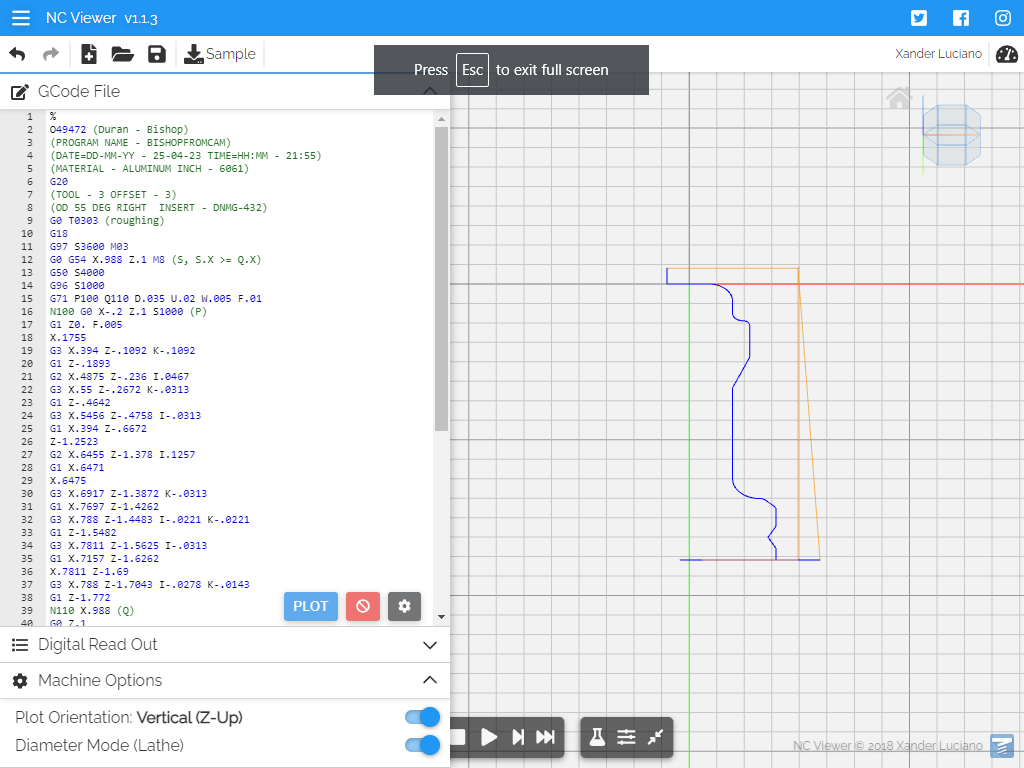
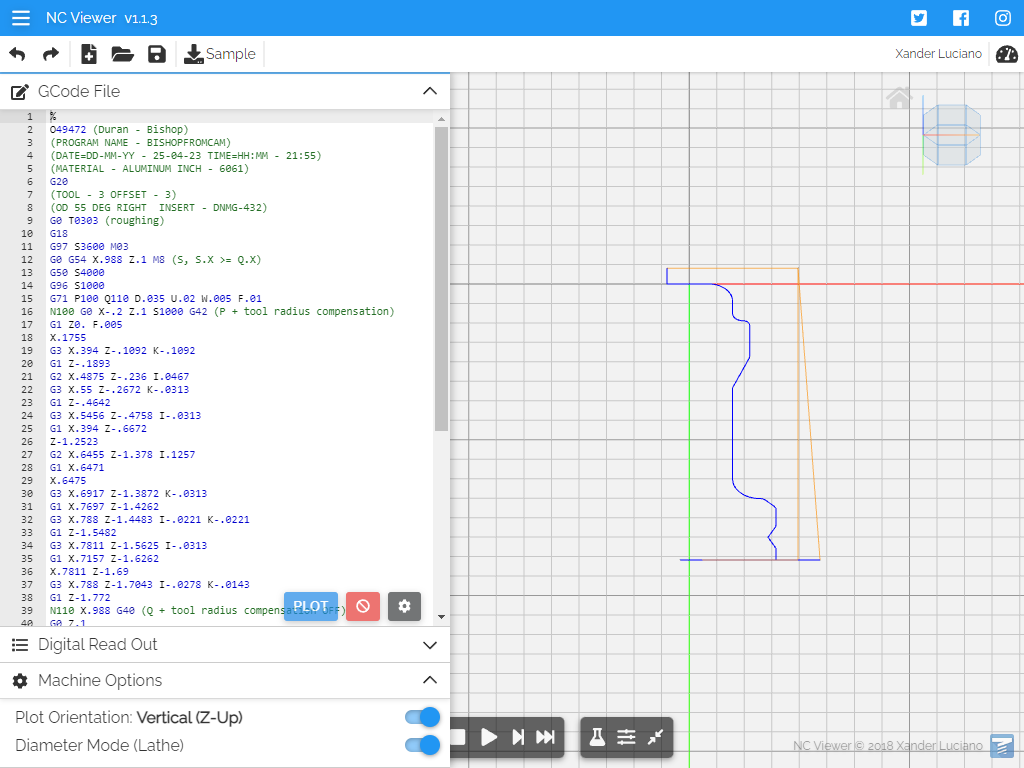
[prj05] fixed NC from CAM image, added Gcode from CAM

Changed region(s): [[0.3438, 0.0312, 0.6562, 0.125], [0.125, 0.7812, 0.2812, 0.8125], [0.0312, 0.0625, 0.0625, 0.0938]]

diff --git a/project05-cnc_lathe-bishop/docs/main.tex b/project05-cnc_lathe-bishop/docs/main.tex
@@ -24,6 +24,11 @@
     pdflatex gcode-manual-for_cnc_simulator
 }
 
+\write18{
+    % the manual gcode for CNC Simulator in two columns
+    pdflatex gcode-cam
+}
+
 \begin{document}
 
 \maketitle
@@ -42,7 +47,7 @@
 \chapter{Plot of manual Gcode in NCViewer}
 \begin{landscape}
 % this image has a lower portrait aspect ratio than a page, so use height for reference
-\includegraphics[height=\textheight]{img/prj05-manual-gcode-ncviewer-plot.png}
+\includegraphics[height=\textheight]{img/prj05-manual-gcode-ncviewer-plot-xz.png}
 \end{landscape}
 
 %\chapter{Gcode for CNC Simulator}
@@ -61,6 +66,16 @@
 \vfill
 \includegraphics[width=\linewidth]{img/prj05-mastercam_simulator-verification.png}
 \vfill
+\end{landscape}
+
+%\chapter{Gcode for CNC Simulator}
+\addtocounter{chapter}{1}
+\includepdf[pages=2-,pagecommand={}]{gcode-cam.pdf}
+
+\chapter{Plot of MasterCAM-generated Gcode in NCViewer}
+\begin{landscape}
+% this image has a lower portrait aspect ratio than a page, so use height for reference
+\includegraphics[height=\textheight]{img/prj05-cam-gcode-ncviewer-plot-xz.png}
 \end{landscape}
 
 \end{document}

diff --git a/project05-cnc_lathe-bishop/docs/gcode-cam.tex b/project05-cnc_lathe-bishop/docs/gcode-cam.tex
@@ -1,0 +1,24 @@
+\documentclass[twocolumn]{report}
+\usepackage[margin=1in]{geometry}
+\usepackage{amsmath}
+\usepackage{amssymb}
+% no page numbers for sub document
+\pagenumbering{gobble}
+
+\addtocounter{chapter}8
+\title{ENGT 3652 Project 5 Chapter~\thechapter:\\*CNC Lathe-Bishop:\\*The MasterCAM generated Gcode}
+\author{Leomar Dur\'an}
+\date{${24}^{\text{th}}$ April 2023}
+
+\usepackage{minted}
+\newcommand*\gcode{lib/pygments/gcodelexer.py:GcodeLexer -x}
+
+\begin{document}
+
+\maketitle
+
+\addtocounter{chapter}{-1}
+\chapter{The MasterCAM generated Gcode}
+\inputminted[breaklines]\gcode{src/bishopFromCam.nc}
+
+\end{document}
